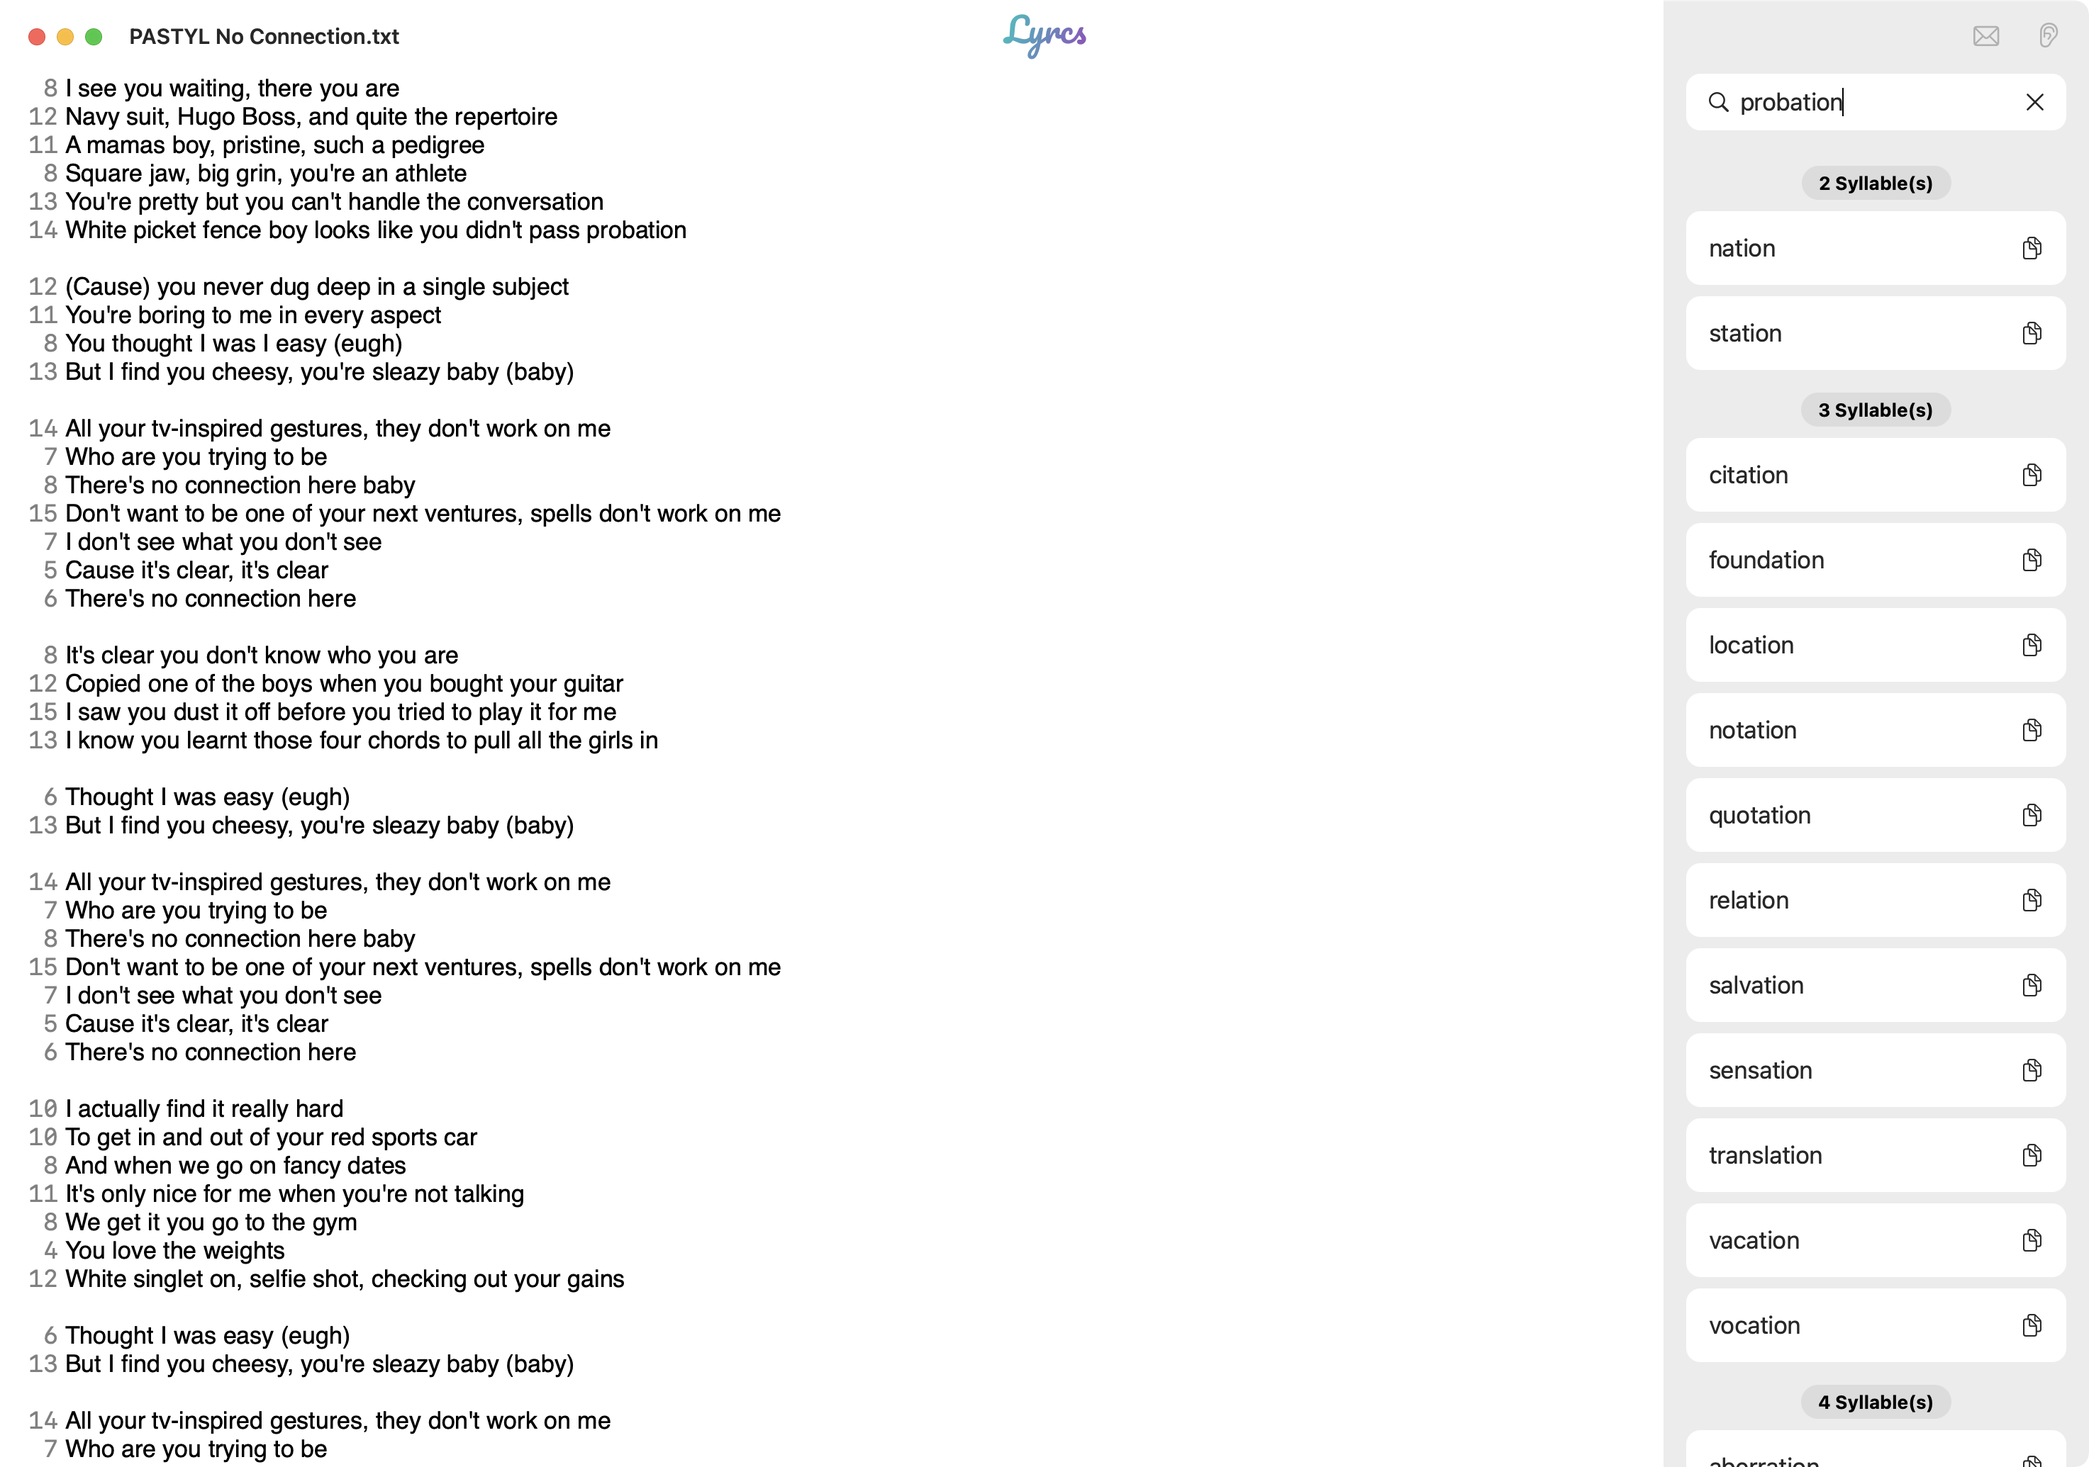
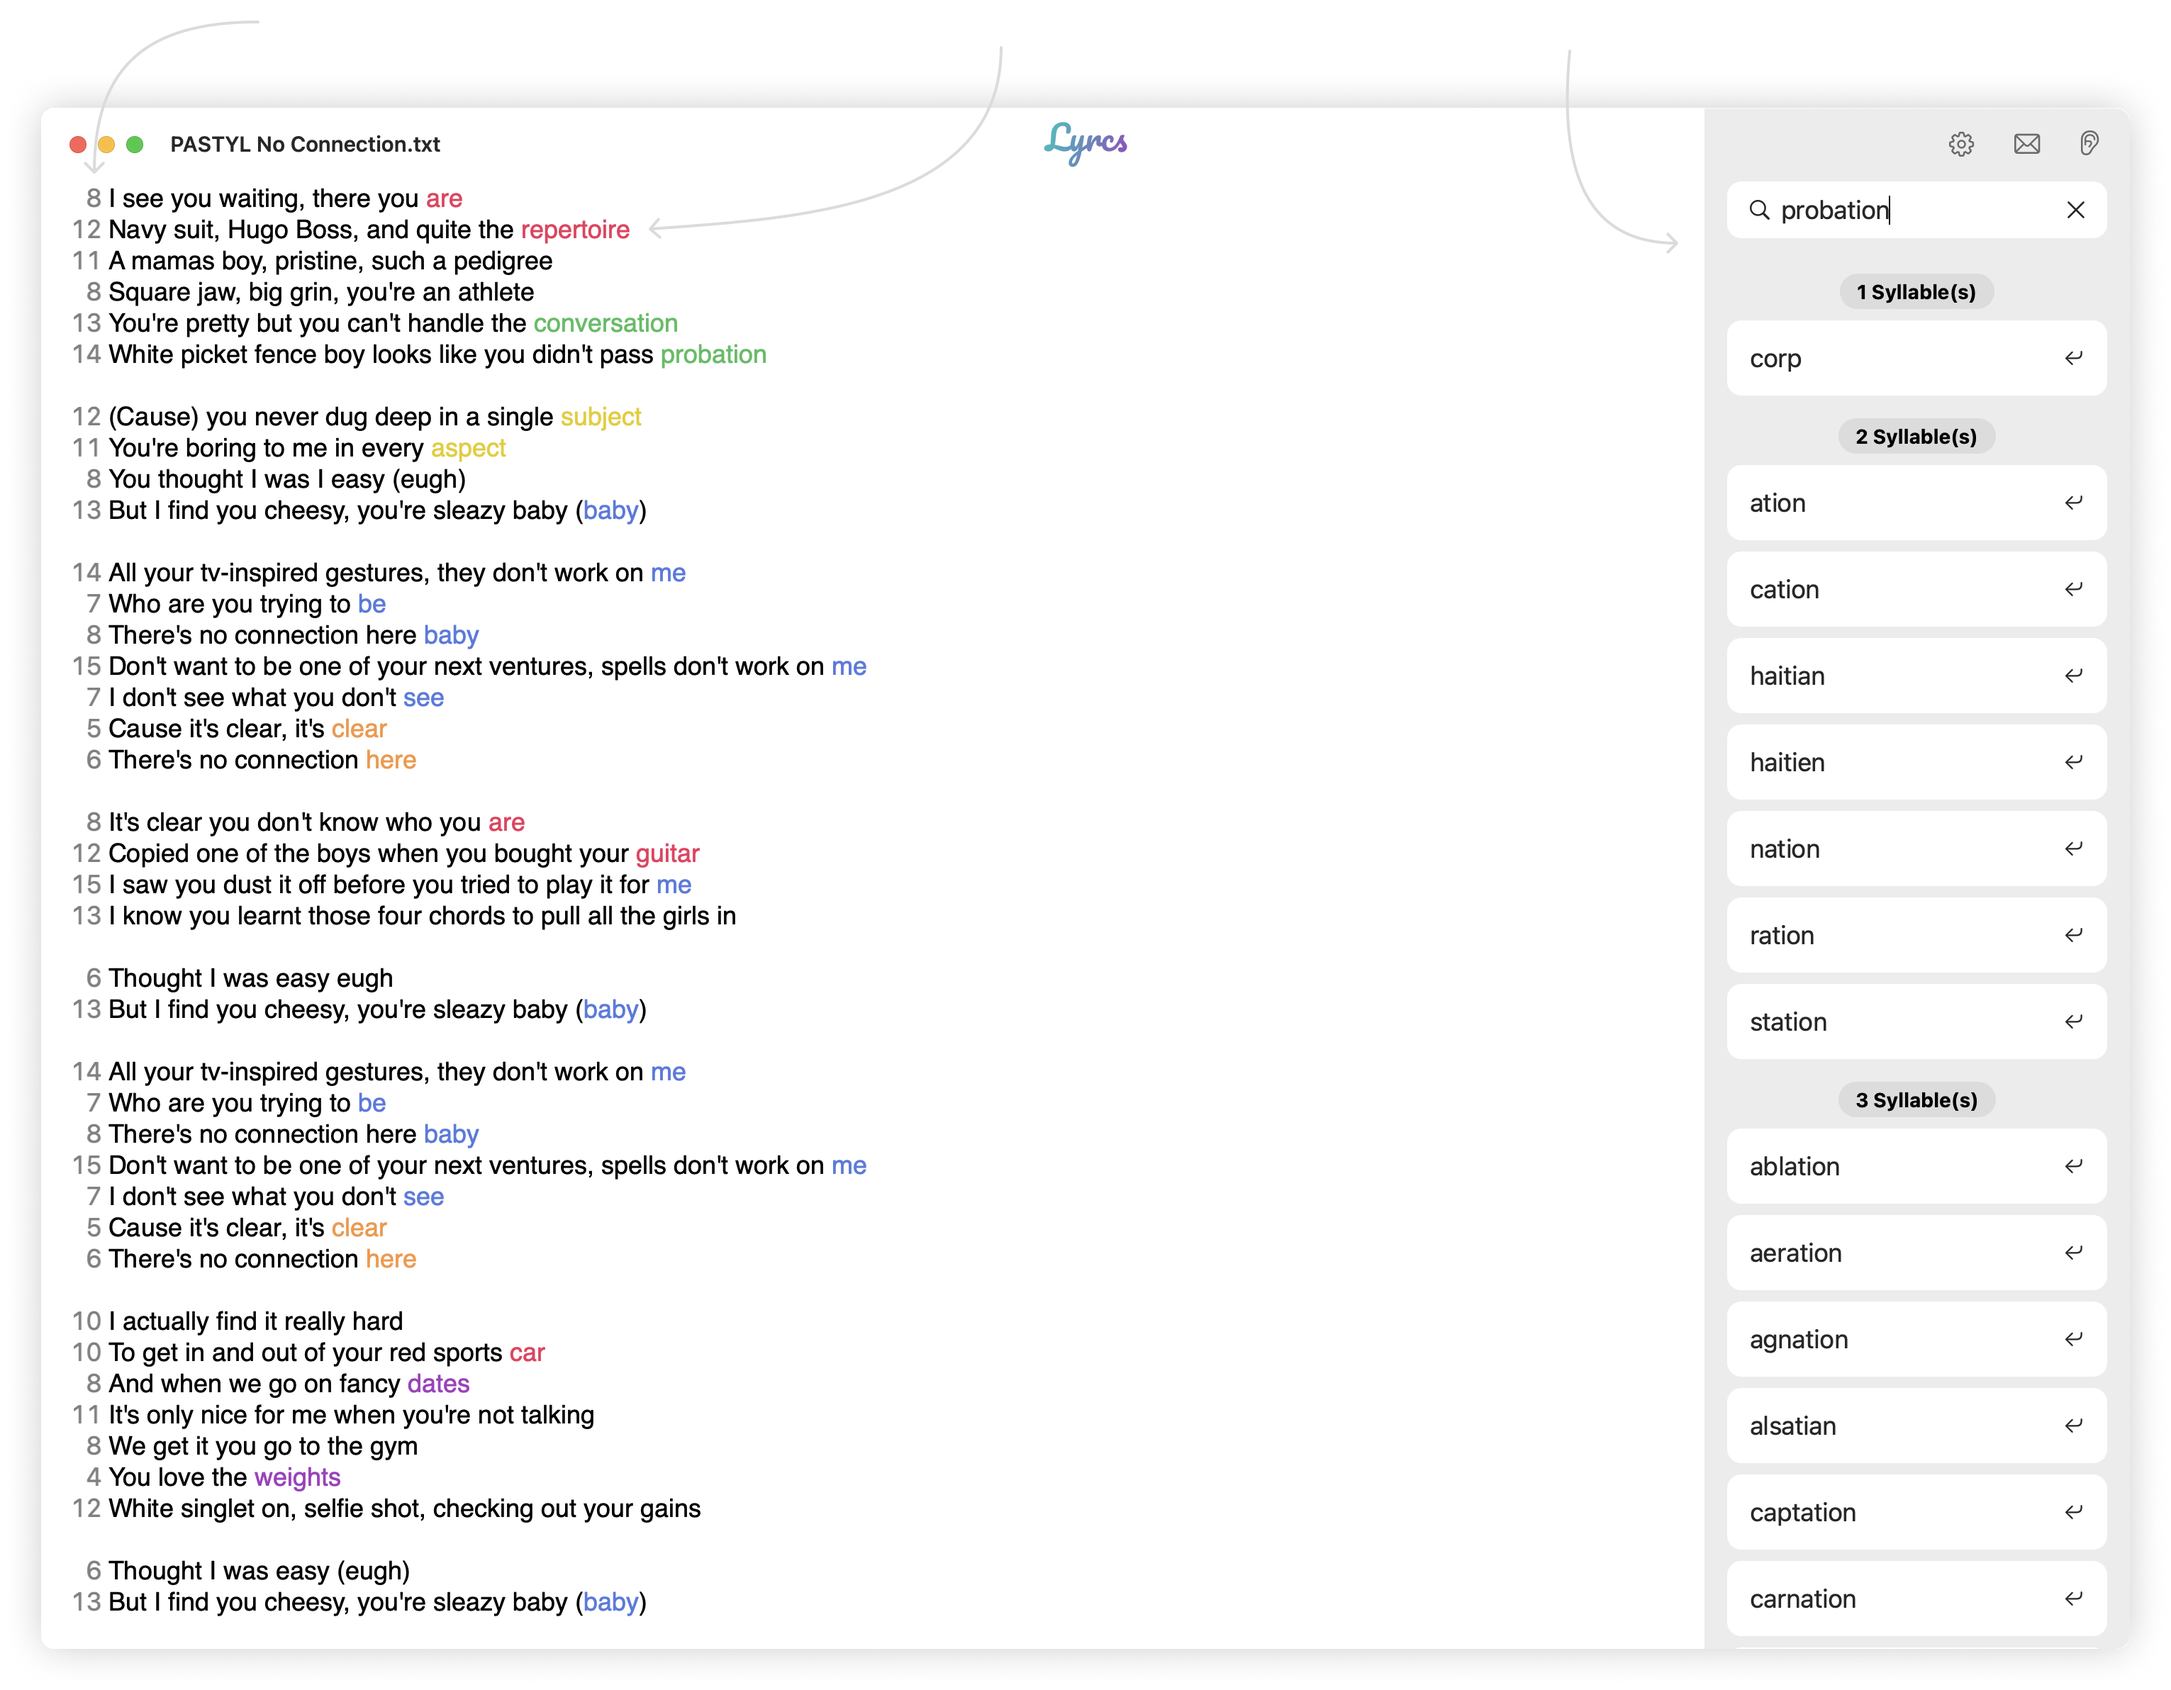
Add rhyme highlight feature

diff --git a/src/components/MainFeatures.vue b/src/components/MainFeatures.vue
@@ -9,10 +9,10 @@
         <p class="mt-4 max-w-3xl mx-auto text-center text-xl text-gray-500">{{ header.subtitle }}</p>
       </div>
 
-      <div v-for="item in features" :key="item.id" class="relative mt-12 sm:mt-16 lg:mt-24">
+      <div v-for="(item, index) in features" :key="item.title" class="relative mt-12 sm:mt-16 lg:mt-24">
         <div class="lg:grid lg:grid-flow-row-dense lg:grid-cols-2 lg:gap-8 lg:items-center">
           <div
-            :class="{ 'lg:col-start-1': item.id % 2 !== 0, 'lg:col-start-2': item.id % 2 === 0 }"
+            :class="{ 'lg:col-start-1': index % 2 !== 0, 'lg:col-start-2': index % 2 === 0 }"
           >
             <h3
               class="text-2xl font-extrabold text-gray-900 tracking-tight sm:text-3xl"
@@ -20,7 +20,7 @@
             <p class="mt-3 text-lg text-gray-500">{{ item.subtitle }}</p>
 
             <dl class="mt-10 space-y-10">
-              <div v-for="item in item.details" :key="item.id" class="relative">
+              <div v-for="item in item.details" :key="item.name" class="relative">
                 <dt>
                   <div
                     class="absolute flex items-center justify-center h-10 w-10 rounded-md bg-app-primary text-white"
@@ -36,7 +36,7 @@
 
           <div
             class="mt-10 -mx-4 relative lg:mt-0"
-            :class="{ 'lg:col-start-1': item.id % 2 === 0, 'lg:col-start-2': item.id % 2 !== 0 }"
+            :class="{ 'lg:col-start-1': index % 2 === 0, 'lg:col-start-2': index % 2 !== 0 }"
           >
             <img class="relative mx-auto" width="490" :src="item.image" alt />
           </div>
@@ -47,11 +47,12 @@
 </template>
 
 <script>
-import { MenuIcon, ShareIcon, BackspaceIcon, CheckIcon, PlusIcon, MoonIcon, DesktopComputerIcon, PencilIcon, CursorClickIcon, AdjustmentsIcon, ViewListIcon, ClipboardCopyIcon, ClockIcon } from '@heroicons/vue/outline'
+import { MenuIcon, ShareIcon, BackspaceIcon, CheckIcon, PlusIcon, MoonIcon, DesktopComputerIcon, PencilIcon, CursorClickIcon, ViewListIcon, ClipboardCopyIcon, ClockIcon, LightningBoltIcon, EyeIcon, ClipboardListIcon } from '@heroicons/vue/outline'
 import ScreenshotRhymes from '@/assets/rhymes.png'
 import ScreenshotSyllables from '@/assets/syllables.png'
 import ScreenshotDesign from '@/assets/design.png'
 import ScreenshotSpelling from '@/assets/spelling.png'
+import ScreenshotHighlight from '../assets/highlight.png'
 
 
 const header = {
@@ -61,27 +62,23 @@ const header = {
 
 const features = [
   {
-    id: 1,
-    title: "Rhyme Dictionary",
+    title: "Rhyming Dictionary",
     subtitle: "Gone are the days of opening your browser to check rhymezone.",
     image: ScreenshotRhymes,
     details: [
       {
-        id: 1,
         name: 'No Wait Times',
         description:
           'Results are given in an instant.',
         icon: ClockIcon,
       },
       {
-        id: 2,
         name: 'Grouping',
         description:
           'Group the results how you like them; by syllables, letters or none at all.',
         icon: MenuIcon,
       },
       {
-        id: 3,
         name: 'Insert or Copy',
         description:
           'Insert results directly at your cursor or copy and paste to the perfect spot.',
@@ -90,27 +87,23 @@ const features = [
     ]
   },
   {
-    id: 2,
     title: "Syllable Counting",
     subtitle: "Looking at your fingers to count syllables is now a thing of the past.",
     image: ScreenshotSyllables,
     details: [
       {
-        id: 1,
         name: 'Per Line',
         description:
           'View the exact number of syllables per line, making it easy to pair up verses.',
         icon: ViewListIcon,
       },
       {
-        id: 2,
         name: 'Per Selection',
         description:
           "Right click on selected text to view its syllable count.",
         icon: CursorClickIcon,
       },
       {
-        id: 3,
         name: 'Override',
         description:
           'If you pronounce a word differently or Lyrcs got it wrong (please let us know), right click to override the count.',
@@ -119,27 +112,48 @@ const features = [
     ]
   },
   {
-    id: 3,
+    title: "Rhyme Highlighting",
+    subtitle: "No need to keep track of which words rhyme at the end of a line, Lyrcs will do that for you.",
+    image: ScreenshotHighlight,
+    details: [
+      {
+        name: "Real-time",
+        description:
+          'No pushing a button to turn it on, rhymes are calculated blazingly fast in the background as you type.',
+          icon: LightningBoltIcon
+      },
+      {
+        name: "Color Blindness",
+        description:
+          `The 20 most distinct colors are used to improve accessibility. If you have any trouble consider turning on macOS Color Filters.`,
+          icon: EyeIcon
+      },
+      {
+        name: "Identical Words",
+        description:
+          'Sometimes when life gives you orange, you just have to orange again. Toggle the option to highlight identical words.',
+          icon: ClipboardListIcon
+      }
+    ]
+  },
+  {
     title: "Fine Design",
     subtitle: "Working late at night? Eyesight isn't what it used to be? Wish you could work without distractions? You're in good hands.",
     image: ScreenshotDesign,
     details: [
       {
-        id: 1,
         name: 'Minimalistic UI',
         description:
           'Lyrcs is designed to have as little distractions as possible, leaving you to focus on your content.',
         icon: DesktopComputerIcon,
       },
       {
-        id: 2,
         name: 'Dark Mode Support',
         description:
           'Get blinded by the brilliant work you create, not by white pixels.',
         icon: MoonIcon,
       },
       {
-        id: 3,
         name: 'Font Adjustable',
         description:
           'Leave your glasses at home grandma, use CMD -, CMD + or CMD 0 to adjust font.',
@@ -148,27 +162,23 @@ const features = [
     ]
   },
   {
-    id: 4,
     title: "Native macOS",
     subtitle: "Everything you come to expect from a native macOS app is included.",
     image: ScreenshotSpelling,
     details: [
       {
-        id: 1,
         name: 'Spelling and Grammar',
         description:
           "We didn't win any spelling bees as kids and if you didn't either, Lyrcs will check it all for you.",
         icon: CheckIcon,
       },
       {
-        id: 2,
         name: 'Undo Redo',
         description:
           'What kind of writing tool would Lyrcs be without this life saving feature?',
         icon: BackspaceIcon,
       },
       {
-        id: 3,
         name: 'Sharing',
         description:
           'Lyrics finished but needing to run it past the partner? File > Share',

diff --git a/src/pages/Competitors.vue b/src/pages/Competitors.vue
@@ -2,6 +2,9 @@
 import PageTitle from '../components/PageTitle.vue';
 </script>
 
+// TODO: potential: "Is Lyrcs the first app that assists in lyric writing? Certainly not, but is it the first that offers everything in the one app? You be the judge."
+// Show screenshot of competitors, iframe?
+
 <template>
     <PageTitle title="Competitors"></PageTitle>
     <div class="bg-white">

diff --git a/src/components/Hero.vue b/src/components/Hero.vue
@@ -22,7 +22,7 @@
           <div class="flex-1 w-full bg-gray-800" />
         </div>
         <div class="max-w-7xl mx-auto px-4 sm:px-6">
-          <img class="relative rounded-lg shadow-lg" src="@/assets/hero.png" alt="App screenshot" />
+          <img class="relative rounded-lg" src="@/assets/hero.png" alt="App screenshot" />
         </div>
       </div>
     </div>
